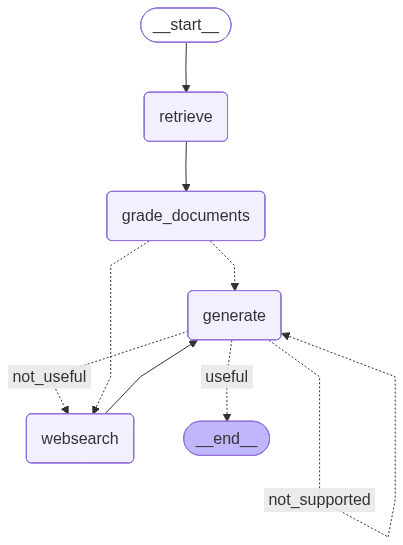
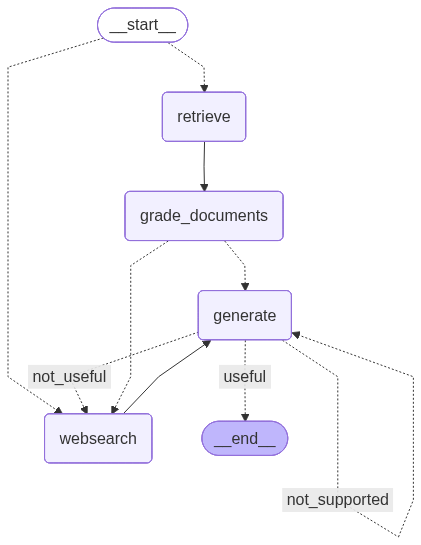
added adaptive RAG - set conditional entry point

diff --git a/graph/graph.py b/graph/graph.py
@@ -2,10 +2,11 @@ from dotenv import load_dotenv
 
 from langgraph.graph import END, StateGraph
 
+from graph.chains.router import RouteQuery
 from graph.consts import RETRIEVE, GRADE_DOCUMENTS, GENERATE, WEBSEARCH
 from graph.nodes import generate, grade_documents, retrieve, web_search
 from graph.state import GraphState
-from graph.chains import answer_grader, hallucination_grader
+from graph.chains import answer_grader, hallucination_grader, question_router
 
 load_dotenv()
 
@@ -41,12 +42,22 @@ def grade_generation_grounded_in_documents_and_question(state) -> str:
             return "useful"
         else:
             print("---DECISION: GENERATION DOES NOT ADDRESS QUESTION---")
-            return "not useful"
+            return "not_useful"
     else:
         print("---DECISION: GENERATION IS NOT GROUNDED IN DOCUMENTS, RE-TRY---")
         return "not_supported"
 
 
+def route_entry_point(state) -> str:
+    print("---ROUTE ENTRY POINT---")
+    question = state["question"]
+    source: RouteQuery = question_router.invoke({"question": question})
+    if source.datasource == "vectorstore":
+        print("---ROUTE QUESTION TO RAG PIPELINE---")
+        return RETRIEVE
+    elif source.datasource == "websearch":
+        print("---ROUTE QUESTION TO WEB SEARCH---")
+        return WEBSEARCH
 
 workflow = StateGraph(GraphState)
 
@@ -55,7 +66,11 @@ workflow.add_node(GRADE_DOCUMENTS, grade_documents)
 workflow.add_node(GENERATE, generate)
 workflow.add_node(WEBSEARCH, web_search)
 
-workflow.set_entry_point(RETRIEVE)
+workflow.set_conditional_entry_point(
+    route_entry_point,
+    {RETRIEVE: RETRIEVE, WEBSEARCH: WEBSEARCH}
+)
+
 workflow.add_edge(RETRIEVE, GRADE_DOCUMENTS)
 
 # this map is useful when the function which decides which node to go to is not returning the nodes name

diff --git a/graph/chains/router.py b/graph/chains/router.py
@@ -1,0 +1,30 @@
+from typing import Literal
+
+from langchain_core.prompts import ChatPromptTemplate
+from pydantic import BaseModel, Field
+from langchain_ollama import ChatOllama
+
+
+class RouteQuery(BaseModel):
+    """Route a user query to the most relevant datasource."""
+
+    datasource: Literal["vectorstore", "websearch"] = Field(
+        ...,
+        description="Given a user question choose to route it to web search or a vectorstore.",
+    )
+
+
+llm = ChatOllama(temperature=0, model="qwen3:1.7b")
+structured_llm_router = llm.with_structured_output(RouteQuery)
+
+system = """You are an expert at routing a user question to a vectorstore or web search.
+The vectorstore contains documents related to agents, prompt engineering, and adversarial attacks.
+Use the vectorstore for questions on these topics. For all else, use web-search."""
+route_prompt = ChatPromptTemplate.from_messages(
+    [
+        ("system", system),
+        ("human", "{question}"),
+    ]
+)
+
+question_router = route_prompt | structured_llm_router

diff --git a/graph/chains/tests/test_chains.py b/graph/chains/tests/test_chains.py
@@ -1,8 +1,9 @@
 from dotenv import load_dotenv
 from pprint import pprint
+
 load_dotenv()
 
-
+from graph.chains.router import RouteQuery, question_router
 from graph.chains.retrieval_grader import GradeDocuments, retrieval_grader
 from graph.chains.generation import generation_chain
 from ingestion import retriever
@@ -62,3 +63,17 @@ def test_hallucination_grader_answer_no() -> None:
         }
     )
     assert not res.binary_score
+
+
+def test_router_to_vectorstore() -> None:
+    question = "agent memory"
+
+    res: RouteQuery = question_router.invoke({"question": question})
+    assert res.datasource == "vectorstore"
+
+
+def test_router_to_websearch() -> None:
+    question = "how to make pizza"
+
+    res: RouteQuery = question_router.invoke({"question": question})
+    assert res.datasource == "websearch"

diff --git a/graph/nodes/web_search.py b/graph/nodes/web_search.py
@@ -15,7 +15,7 @@ def web_search(state: GraphState) -> Dict[str, Any]:
     question = state["question"]
 
     # at this stage, all the documents should be relevant, because they were filtered a step ago
-    documents = state["documents"]
+    documents = state.get("documents", None)
 
     tavily_results = web_search_tool.invoke({"query": question})
     joined_tavily_result = "\n".join(

diff --git a/graph/chains/__init__.py b/graph/chains/__init__.py
@@ -1,4 +1,5 @@
 from graph.chains.answer_grader import answer_grader
 from graph.chains.hallucination_grader import hallucination_grader
+from graph.chains.router import question_router
 
-__all__ = ["answer_grader", "hallucination_grader"]
+__all__ = ["answer_grader", "hallucination_grader", "question_router"]

diff --git a/main.py b/main.py
@@ -6,7 +6,7 @@ load_dotenv()
 def main():
 
     print("Hello Advanced RAG")
-    print(app.invoke(input={"question": "what is agent memory?"}))
+    print(app.invoke(input={"question": "how is Clau?"}))
 
 
 if __name__ == "__main__":
